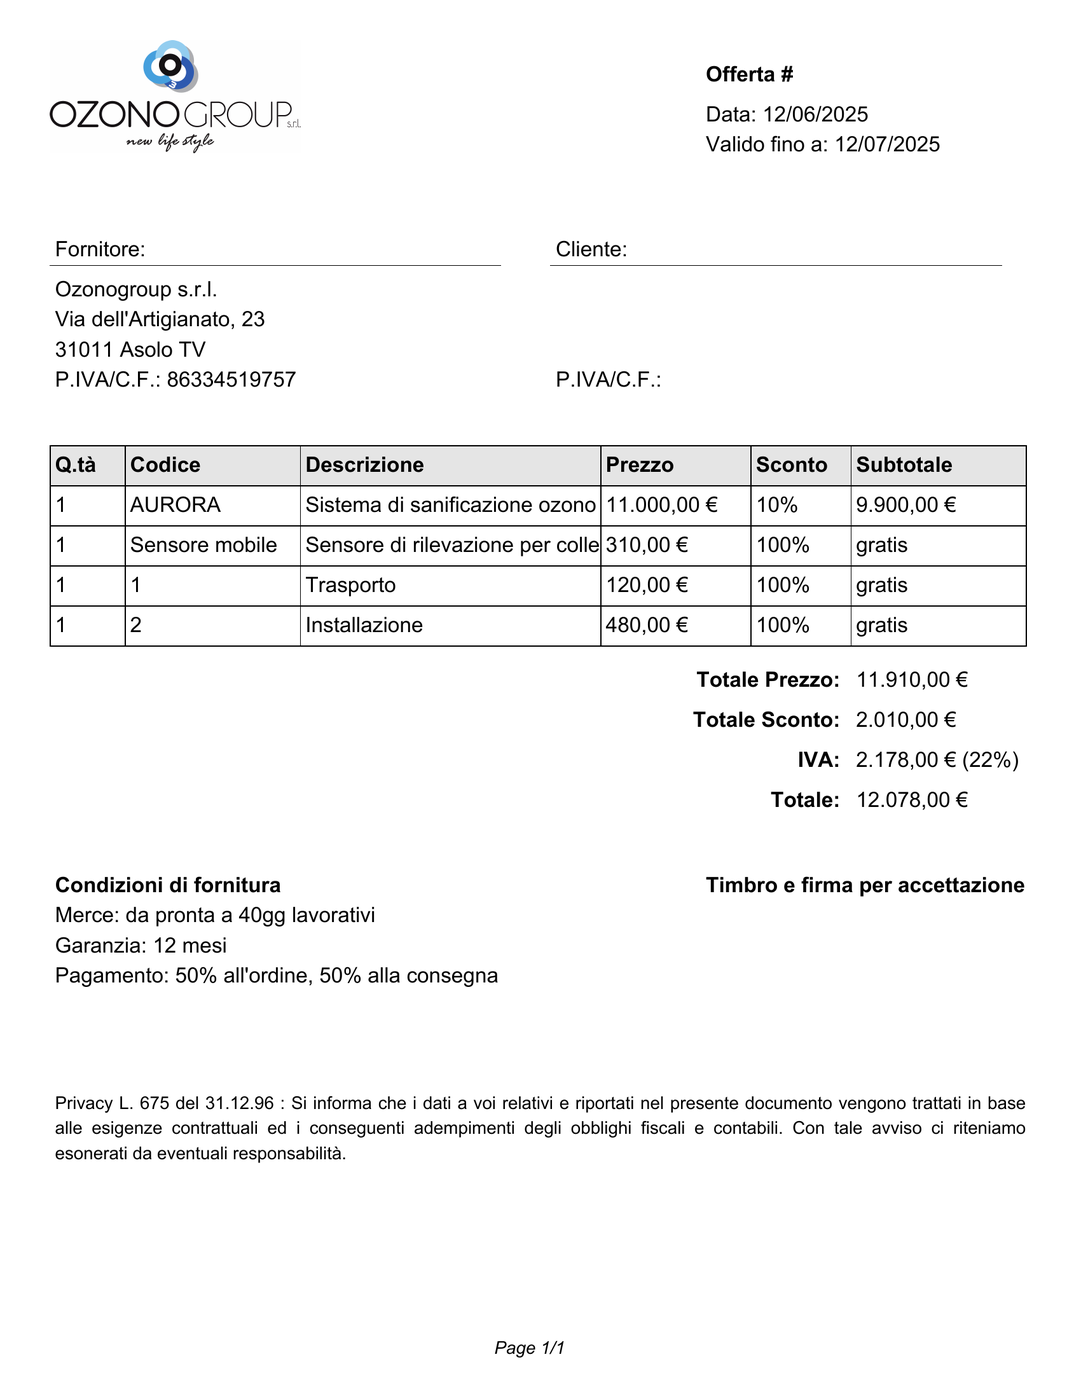
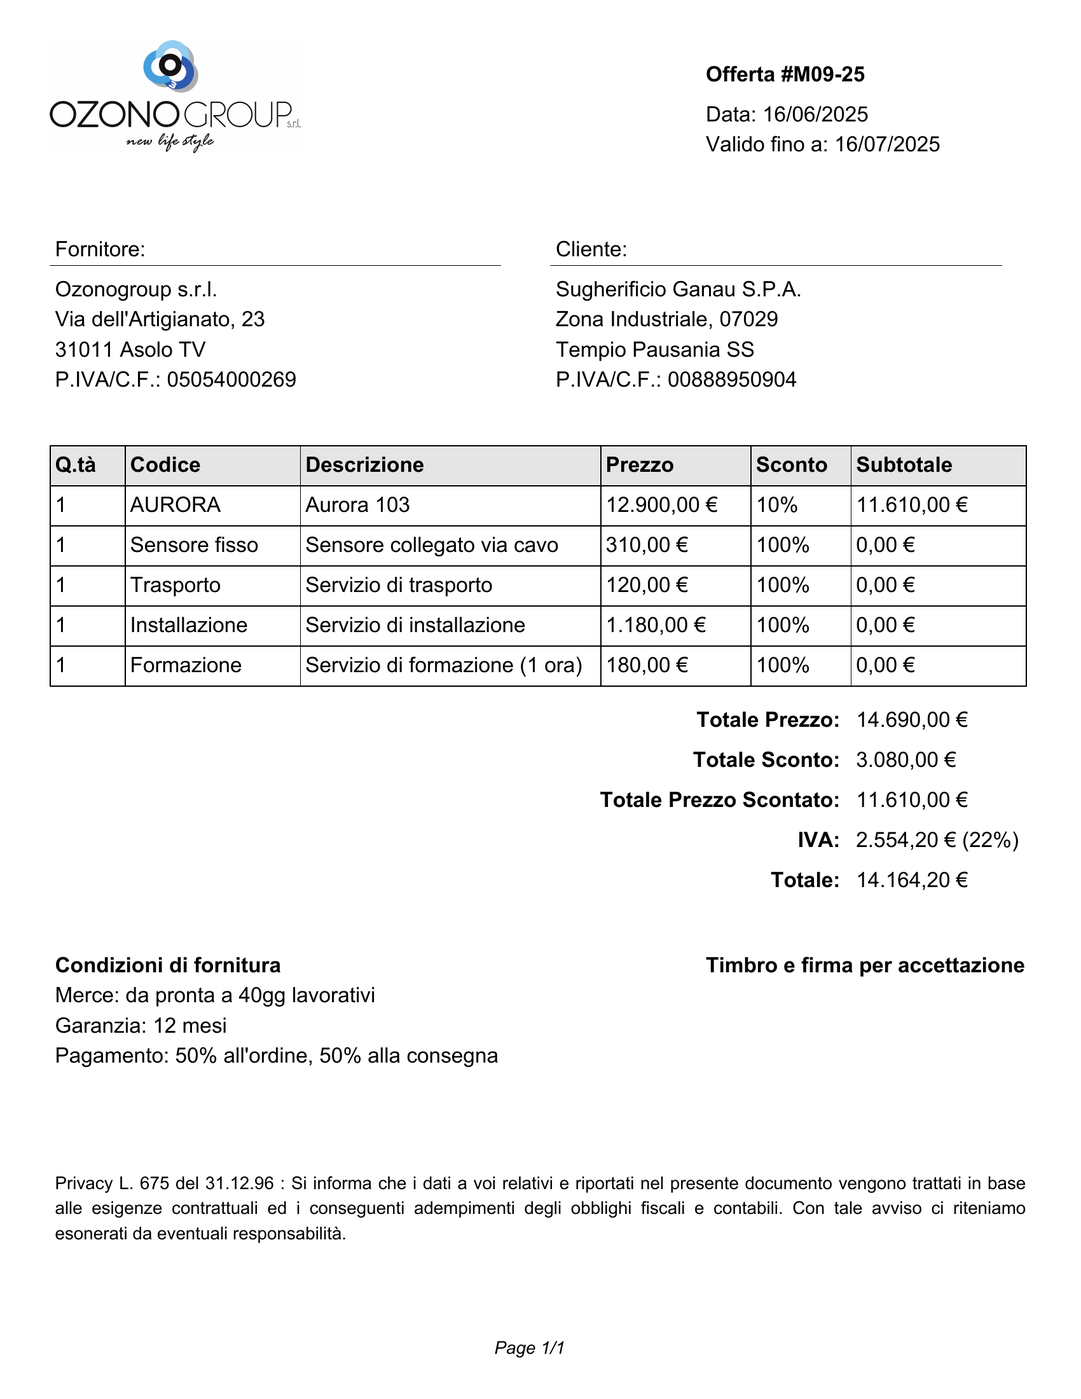
'

diff --git a/website/public/index.html b/website/public/index.html
@@ -43,7 +43,7 @@
                                 sistemi di sanificazione con ozono per ambienti di produzione alimentari più
                                 sicuri e igienici (senza l'uso di sostanze chimiche).</p>
                             <!-- <div style="display: flex; gap: 24px;"> -->
-                            <a class="home-hero-content-button" href="#">Prenota consulenza</a>
+                            <a class="home-hero-content-button" href="/contatti.html">Prenota consulenza</a>
                             <!-- <a class="button-inverted-secondary" href="#">Come funziona</a> -->
                             <!-- </div> -->
                         </div>
@@ -101,14 +101,14 @@
                                 <path
                                     d="M420-340h120v-100h100v-120H540v-100H420v100H320v120h100v100Zm60 260q-139-35-229.5-159.5T160-516v-244l320-120 320 120v244q0 152-90.5 276.5T480-80Zm0-84q104-33 172-132t68-220v-189l-240-90-240 90v189q0 121 68 220t172 132Zm0-316Z" />
                             </svg>
-                            <div style="display: flex; gap: 8px;">
+                            <!-- <div style="display: flex; gap: 8px;">
                                 <a class="home-benefits-card-link" href="#">Learn more</a>
                                 <svg class="home-benefits-card-icon" xmlns="http://www.w3.org/2000/svg" fill="none"
                                     viewBox="0 0 24 24" stroke-width="1.5" stroke="currentColor" class="size-6">
                                     <path stroke-linecap="round" stroke-linejoin="round"
                                         d="M17.25 8.25 21 12m0 0-3.75 3.75M21 12H3" />
                                 </svg>
-                            </div>
+                            </div> -->
                         </div>
                     </div>
                 </div>
@@ -127,14 +127,14 @@
                                 <path
                                     d="M450-80q-12 0-21-9t-9-21q0-12 9-21t21-9v-62q-42-5-79-20t-67-40l-43 44q9 9 9 21t-9 21q-9 9-21 9t-21-9l-43-42q-9-9-9-21.5t9-21.5q9-9 21-8.5t21 8.5l44-44q-25-31-40-67t-20-78h-62q0 12-9 21t-21 9q-12 0-21-9t-9-21v-60q0-12 9-21t21-9q12 0 21 9t9 21h62q5-42 20.5-78t39.5-67l-44-44q-9 8-21 8.5t-21-8.5q-9-9-9-21.5t9-21.5l42-42q9-9 21.5-9t21.5 9q9 9 9 21.5t-9 21.5l43 43q31-25 67-40t78-20v-62q-12 0-20.5-9t-8.5-21q0-12 9-21t21-9h60q12 0 21 9t9 21q0 12-9 21t-21 9v62q42 5 78 20t67 40l44-44q-9-9-9-21t9-21q9-9 21.5-9t21.5 9l42 43q9 9 9 21t-9 21q-9 9-21.5 9t-21.5-9l-43 43q25 31 40 67.5t20 78.5h62q0-12 9-21t21-9q12 0 21 9t9 21v60q0 12-9 21t-21 9q-12 0-21-9t-9-21h-62q-5 42-20 78.5T698-304l43 43q9-9 21.5-9t21.5 9q9 9 9 21.5t-9 21.5l-42 42q-9 9-21.5 9t-21.5-9q-9-9-8.5-21t8.5-21l-44-44q-31 25-67 40.5T510-201v61q12 0 21 9t9 21q0 12-9 21t-21 9h-60Zm30-200q83 0 141.5-58.5T680-480q0-83-58.5-141.5T480-680q-83 0-141.5 58.5T280-480q0 83 58.5 141.5T480-280Zm-70-40q17 0 28.5-11.5T450-360q0-17-11.5-28.5T410-400q-17 0-28.5 11.5T370-360q0 17 11.5 28.5T410-320Zm140 0q17 0 28.5-11.5T590-360q0-17-11.5-28.5T550-400q-17 0-28.5 11.5T510-360q0 17 11.5 28.5T550-320ZM340-440q17 0 28.5-11.5T380-480q0-17-11.5-28.5T340-520q-17 0-28.5 11.5T300-480q0 17 11.5 28.5T340-440Zm140 0q17 0 28.5-11.5T520-480q0-17-11.5-28.5T480-520q-17 0-28.5 11.5T440-480q0 17 11.5 28.5T480-440Zm140 0q17 0 28.5-11.5T660-480q0-17-11.5-28.5T620-520q-17 0-28.5 11.5T580-480q0 17 11.5 28.5T620-440ZM410-560q17 0 28.5-11.5T450-600q0-17-11.5-28.5T410-640q-17 0-28.5 11.5T370-600q0 17 11.5 28.5T410-560Zm140 0q17 0 28.5-11.5T590-600q0-17-11.5-28.5T550-640q-17 0-28.5 11.5T510-600q0 17 11.5 28.5T550-560Zm-70 80Z" />
                             </svg>
-                            <div style="display: flex; gap: 8px;">
+                            <!-- <div style="display: flex; gap: 8px;">
                                 <a class="home-benefits-card-link" href="#">Learn more</a>
                                 <svg class="home-benefits-card-icon" xmlns="http://www.w3.org/2000/svg" fill="none"
                                     viewBox="0 0 24 24" stroke-width="1.5" stroke="currentColor" class="size-6">
                                     <path stroke-linecap="round" stroke-linejoin="round"
                                         d="M17.25 8.25 21 12m0 0-3.75 3.75M21 12H3" />
                                 </svg>
-                            </div>
+                            </div> -->
                         </div>
                     </div>
                 </div>
@@ -154,14 +154,14 @@
                                 <path
                                     d="M216-176q-45-45-70.5-104T120-402q0-63 24-124.5T222-642q35-35 86.5-60t122-39.5Q501-756 591.5-759t202.5 7q8 106 5 195t-16.5 160.5q-13.5 71.5-38 125T684-182q-53 53-112.5 77.5T450-80q-65 0-127-25.5T216-176Zm112-16q29 17 59.5 24.5T450-160q46 0 91-18.5t86-59.5q18-18 36.5-50.5t32-85Q709-426 716-500.5t2-177.5q-49-2-110.5-1.5T485-670q-61 9-116 29t-90 55q-45 45-62 89t-17 85q0 59 22.5 103.5T262-246q42-80 111-153.5T534-520q-72 63-125.5 142.5T328-192Zm0 0Zm0 0Z" />
                             </svg>
-                            <div style="display: flex; gap: 8px;">
+                            <!-- <div style="display: flex; gap: 8px;">
                                 <a class="home-benefits-card-link" href="#">Learn more</a>
                                 <svg class="home-benefits-card-icon" xmlns="http://www.w3.org/2000/svg" fill="none"
                                     viewBox="0 0 24 24" stroke-width="1.5" stroke="currentColor" class="size-6">
                                     <path stroke-linecap="round" stroke-linejoin="round"
                                         d="M17.25 8.25 21 12m0 0-3.75 3.75M21 12H3" />
                                 </svg>
-                            </div>
+                            </div> -->
                         </div>
                     </div>
                 </div>
@@ -336,7 +336,8 @@
                                     d="M250-40v-160h-30q-42 0-71-29t-29-71q0-42 29-71t71-29h30v-40H120v-200h130v-40h-30q-42 0-71-29t-29-71q0-42 29-71t71-29h30v-40h60v40h30q42 0 71 29t29 71q0 42-29 71t-71 29h-30v40h130v200H310v40h30q42 0 71 29t29 71q0 42-29 71t-71 29h-30v160h-60Zm400 0v-160h-30q-42 0-71-29t-29-71q0-42 29-71t71-29h30v-40H520v-200h130v-40h-30q-42 0-71-29t-29-71q0-42 29-71t71-29h30v-40h60v40h30q42 0 71 29t29 71q0 42-29 71t-71 29h-30v40h130v200H710v40h30q42 0 71 29t29 71q0 42-29 71t-71 29h-30v160h-60ZM220-760h120q8 0 14-6t6-14q0-8-6-14t-14-6H220q-8 0-14 6t-6 14q0 8 6 14t14 6Zm400 0h120q8 0 14-6t6-14q0-8-6-14t-14-6H620q-8 0-14 6t-6 14q0 8 6 14t14 6ZM200-520h160v-40H200v40Zm400 0h160v-40H600v40ZM220-280h120q8 0 14-6t6-14q0-8-6-14t-14-6H220q-8 0-14 6t-6 14q0 8 6 14t14 6Zm400 0h120q8 0 14-6t6-14q0-8-6-14t-14-6H620q-8 0-14 6t-6 14q0 8 6 14t14 6ZM200-760v-40 40Zm400 0v-40 40ZM200-520v-40 40Zm400 0v-40 40ZM200-280v-40 40Zm400 0v-40 40Z" />
                             </svg>
                             <div style="display: flex; gap: 8px;">
-                                <a style="color: #3E546A; text-decoration-line: none;" href="#">Learn more</a>
+                                <a style="color: #3E546A; text-decoration-line: none;" href="/settori.html">Scopri
+                                    Settori</a>
                                 <svg style="height: 24px;" xmlns="http://www.w3.org/2000/svg" fill="none"
                                     viewBox="0 0 24 24" stroke-width="1.5" stroke="currentColor" class="size-6">
                                     <path stroke-linecap="round" stroke-linejoin="round"
@@ -365,7 +366,8 @@
                                     d="M440-120q-100 0-170-70t-70-170v-240l200 200-56 57-64-64v47q0 66 47 113t113 47q66 0 113-47t47-113v-127q-36-14-58-44.5T520-600q0-38 22-68.5t58-44.5v-167h80v167q36 14 58 44.5t22 68.5q0 38-22 69t-58 44v127q0 100-70 170t-170 70Zm200-440q17 0 28.5-11.5T680-600q0-17-11.5-28.5T640-640q-17 0-28.5 11.5T600-600q0 17 11.5 28.5T640-560Zm0-40Z" />
                             </svg>
                             <div style="display: flex; gap: 8px;">
-                                <a style="color: #3E546A; text-decoration-line: none;" href="#">Learn more</a>
+                                <a style="color: #3E546A; text-decoration-line: none;" href="/settori.html">Scopri
+                                    Settori</a>
                                 <svg style="height: 24px;" xmlns="http://www.w3.org/2000/svg" fill="none"
                                     viewBox="0 0 24 24" stroke-width="1.5" stroke="currentColor" class="size-6">
                                     <path stroke-linecap="round" stroke-linejoin="round"
@@ -398,7 +400,8 @@
                                     d="M480-120q-117 0-198.5-81.5T200-400q0-94 55.5-168.5T401-669q-20-5-39-14.5T328-708q-33-33-42.5-78.5T281-879q47-5 92.5 4.5T452-832q23 23 33.5 52t13.5 61q13-31 31.5-58.5T572-828q11-11 28-11t28 11q11 11 11 28t-11 28q-22 22-39 48.5T564-667q88 28 142 101.5T760-400q0 117-81.5 198.5T480-120Zm0-80q83 0 141.5-58.5T680-400q0-83-58.5-141.5T480-600q-83 0-141.5 58.5T280-400q0 83 58.5 141.5T480-200Zm0-200Z" />
                             </svg>
                             <div style="display: flex; gap: 8px;">
-                                <a style="color: #3E546A; text-decoration-line: none;" href="#">Learn more</a>
+                                <a style="color: #3E546A; text-decoration-line: none;" href="/settori.html">Scopri
+                                    Settori</a>
                                 <svg style="height: 24px;" xmlns="http://www.w3.org/2000/svg" fill="none"
                                     viewBox="0 0 24 24" stroke-width="1.5" stroke="currentColor" class="size-6">
                                     <path stroke-linecap="round" stroke-linejoin="round"
@@ -431,8 +434,7 @@
                             </svg>
                             <div style="display: flex; gap: 8px;">
                                 <a style="color: #3E546A; text-decoration-line: none;"
-                                    href="/settori/lattiero-caseario.html">Learn
-                                    more</a>
+                                    href="/settori/lattiero-caseario.html">Scopri settore</a>
                                 <svg style="height: 24px;" xmlns="http://www.w3.org/2000/svg" fill="none"
                                     viewBox="0 0 24 24" stroke-width="1.5" stroke="currentColor" class="size-6">
                                     <path stroke-linecap="round" stroke-linejoin="round"
@@ -463,7 +465,8 @@
                                     d="M491-200q12-1 20.5-9.5T520-230q0-14-9-22.5t-23-7.5q-41 3-87-22.5T343-375q-2-11-10.5-18t-19.5-7q-14 0-23 10.5t-6 24.5q17 91 80 130t127 35ZM480-80q-137 0-228.5-94T160-408q0-100 79.5-217.5T480-880q161 137 240.5 254.5T800-408q0 140-91.5 234T480-80Zm0-80q104 0 172-70.5T720-408q0-73-60.5-165T480-774Q361-665 300.5-573T240-408q0 107 68 177.5T480-160Zm0-320Z" />
                             </svg>
                             <div style="display: flex; gap: 8px;">
-                                <a style="color: #3E546A; text-decoration-line: none;" href="#">Learn more</a>
+                                <a style="color: #3E546A; text-decoration-line: none;" href="/settori.html">Scopri
+                                    Settori</a>
                                 <svg style="height: 24px;" xmlns="http://www.w3.org/2000/svg" fill="none"
                                     viewBox="0 0 24 24" stroke-width="1.5" stroke="currentColor" class="size-6">
                                     <path stroke-linecap="round" stroke-linejoin="round"

diff --git a/website/public/settori/lattiero-caseario.html b/website/public/settori/lattiero-caseario.html
@@ -32,7 +32,7 @@
     <div class="spacer-xl"></div>
 
     <section>
-        <div class="container-xl article-container">
+        <div class="container-xl article-layout-container">
             <div style="flex: 2;" class="article">
                 <h1 class="article-title">7 applicazioni della sanificazione ozono nel settore lattiero-caseario</h1>
                 <img class="article-image" src="/immagini/settore-lattiero-caseario.jpg"
@@ -41,7 +41,7 @@
                     microrganismi da ambienti, attrezzature e aria, prolungando la shelf life senza residui
                     chimici.
                 </p>
-                <h2>1. mastite acuta clinica
+                <h2>1. guarisce mastite acuta clinica
                 </h2>
                 <p>
                     La mastite clinica è una malattia comune e costosa nelle mucche da latte, solitamente trattata con
@@ -57,7 +57,7 @@
                     sicuro, economico e senza rischio di residui nel latte, offrendo una valida alternativa ai
                     trattamenti tradizionali.
                 </p>
-                <h2>2. superfici contaminate da letame
+                <h2>2. disinfetta superfici contaminate da letame
                 </h2>
                 <p>
                     Uno studio pubblicato dal "PLOS One Journal" ha valutato l'efficacia dell'ozono come disinfettante
@@ -78,7 +78,7 @@
                     riduzione efficace
                     entro 2 e 8 minuti rispettivamente.
                 </p>
-                <h2>3. flora microbica di prodotti fermentati
+                <h2>3. riduce flora microbica nei prodotti fermentati
                 </h2>
                 <p>
                     Uno studio pubblicato dal "International Journal of Food Microbiology" ha valutato l'efficacia
@@ -99,7 +99,7 @@
                     corretta configurazione di tempo e concentrazione, l'ozonizzazione potrebbe rappresentare un
                     approccio promettente per migliorare la sicurezza microbiologica di alcuni prodotti caseari.
                 </p>
-                <h2>4. Endometrite postpartum delle vacche da latte
+                <h2>4. Guarisce Endometrite postpartum delle vacche da latte
                 </h2>
                 <p>
                     Uno studio pubblicato dal "Agriculture and Agricultural Science Procedia" ha valutato l'efficacia
@@ -119,7 +119,7 @@
                     al primo servizio. Inoltre, il numero medio di dosi di seme necessarie fino alla gravidanza è stato
                     inferiore nel gruppo Ozono rispetto al gruppo Controllo.
                 </p>
-                <h2>5. Trattamento delle acque reflue
+                <h2>5. Tratta le acque reflue
                 </h2>
                 <p>
                     Uno studio pubblicato dal "Environmental Engineering Research" ha valutato l'efficacia di diversi
@@ -140,7 +140,7 @@
                     l'ozono, soprattutto se utilizzato in combinazione con UV e H₂O₂, è particolarmente efficace nel
                     trattamento di queste acque reflue.
                 </p>
-                <h2>6. Biofilm di Bacillus spp.
+                <h2>6. Elimina Biofilm di Bacillus spp.
                 </h2>
                 <p>
                     Uno studio pubblicato dal "Frontiers in Microbiology" ha valutato il problema della contaminazione
@@ -161,10 +161,11 @@
                     polistirene. Questi risultati confermano il potenziale dell'ozono come alternativa “green” per
                     migliorare i protocolli di sanificazione nel settore alimentare.
                 </p>
-                <h2>7.
+                <h2>7. Elimina Salmonella ed E. coli nei rifiuti liquidi
                 </h2>
                 <p>
-                    Uno studio ha valutato il problema della contaminazione da patogeni umani nel letame liquido bovino,
+                    Uno studio pubblicato dal " Applied Sciences Journal" ha valutato il problema della contaminazione
+                    da patogeni umani nel letame liquido bovino,
                     comunemente utilizzato come fertilizzante agricolo alternativo.
                 </p>
                 <p>
@@ -182,7 +183,51 @@
                     entrambi i patogeni.
                 </p>
             </div>
-            <div style="flex: 1;"></div>
+            <div style="flex: 1;" class="article-sidebar">
+                <div class="contact-card">
+                    <div>
+                        <p class="article-contact-card-title">Contattaci</p>
+                        <p class="article-contact-card-desc">Se vuoi richiedere informazioni sull'utilizzo dell'ozono in
+                            questo settore, usa uno dei contatti elencati qui sotto.</p>
+                    </div>
+                    <div style="display: flex; flex-direction: column; gap: 16px;">
+                        <div style="display: flex; justify-content: space-between; align-items: center;">
+                            <div style="display: flex; gap: 8px;">
+                                <svg style="color: #0f1f2e;" xmlns="http://www.w3.org/2000/svg" height="32px"
+                                    viewBox="0 -960 960 960">
+                                    <path
+                                        d="M160-160q-33 0-56.5-23.5T80-240v-480q0-33 23.5-56.5T160-800h640q33 0 56.5 23.5T880-720v480q0 33-23.5 56.5T800-160H160Zm320-280L160-640v400h640v-400L480-440Zm0-80 320-200H160l320 200ZM160-640v-80 480-400Z" />
+                                </svg>
+                                <p class="contact-text">
+                                    Mandaci una email<br>elena@ozonogroup.it
+                                </p>
+                            </div>
+                            <svg style="height: 32px; color: #0f1f2e;" xmlns="http://www.w3.org/2000/svg" fill="none"
+                                viewBox="0 0 24 24" stroke-width="1.5" stroke="currentColor" class="size-6">
+                                <path stroke-linecap="round" stroke-linejoin="round"
+                                    d="M17.25 8.25 21 12m0 0-3.75 3.75M21 12H3" />
+                            </svg>
+                        </div>
+                        <div style="display: flex; justify-content: space-between; align-items: center;">
+                            <div style="display: flex; gap: 8px;">
+                                <svg style="color: #0f1f2e;" xmlns="http://www.w3.org/2000/svg" height="32px"
+                                    viewBox="0 -960 960 960">
+                                    <path
+                                        d="M798-120q-125 0-247-54.5T329-329Q229-429 174.5-551T120-798q0-18 12-30t30-12h162q14 0 25 9.5t13 22.5l26 140q2 16-1 27t-11 19l-97 98q20 37 47.5 71.5T387-386q31 31 65 57.5t72 48.5l94-94q9-9 23.5-13.5T670-390l138 28q14 4 23 14.5t9 23.5v162q0 18-12 30t-30 12ZM241-600l66-66-17-94h-89q5 41 14 81t26 79Zm358 358q39 17 79.5 27t81.5 13v-88l-94-19-67 67ZM241-600Zm358 358Z" />
+                                </svg>
+                                <p class="contact-text">
+                                    Chiamaci<br>+39 0423 952833
+                                </p>
+                            </div>
+                            <svg style="height: 32px; color: #0f1f2e;" xmlns="http://www.w3.org/2000/svg" fill="none"
+                                viewBox="0 0 24 24" stroke-width="1.5" stroke="currentColor" class="size-6">
+                                <path stroke-linecap="round" stroke-linejoin="round"
+                                    d="M17.25 8.25 21 12m0 0-3.75 3.75M21 12H3" />
+                            </svg>
+                        </div>
+                    </div>
+                </div>
+            </div>
         </div>
     </section>
 

diff --git a/website/public/style.css b/website/public/style.css
@@ -836,26 +836,24 @@ p {}
 /* ******************************* */
 /* article */
 /* ******************************* */
-.article h2 {
-    margin-top: 6.4rem;
-}
 
-.article-container {
+.article-layout-container {
     display: flex;
     gap: 96px;
     margin-bottom: 16px;
 }
 
-.article-container p {
+.article p {
     margin-bottom: 16px;
     line-height: 1.5;
 }
 
-.article-container h2 {
+.article h2 {
     color: var(--ds-theme-color-content-display);
     font-size: var(--ds-theme-typography-size-xl);
     line-height: 40px;
     font-weight: normal;
+    margin-top: 6.4rem;
     margin-bottom: 16px;
     text-transform: capitalize;
 }
@@ -874,4 +872,20 @@ p {}
     object-fit: cover;
     margin-bottom: 16px;
     border-radius: var(--ds-theme-border-radius-xl);
+}
+
+.article-sidebar {}
+
+.article-contact-card-title {
+    color: var(--ds-theme-color-content-display);
+    font-size: var(--ds-theme-typography-size-xl);
+    /* line-height: 40px; */
+    font-weight: normal;
+    margin-bottom: 16px;
+    text-transform: capitalize;
+
+}
+
+.article-contact-card-desc {
+    margin-bottom: 32px;
 }

diff --git a/website/public/settori.html b/website/public/settori.html
@@ -60,7 +60,7 @@
                             </svg>
                             <div style="display: flex; gap: 8px;">
                                 <a style="color: #3E546A; text-decoration-line: none;"
-                                    href="/settori/lattiero-caseario.html">Learn more</a>
+                                    href="/settori/lattiero-caseario.html">Scopri settore</a>
                                 <svg style="height: 24px;" xmlns="http://www.w3.org/2000/svg" fill="none"
                                     viewBox="0 0 24 24" stroke-width="1.5" stroke="currentColor" class="size-6">
                                     <path stroke-linecap="round" stroke-linejoin="round"

diff --git a/website/components/button-default.css b/website/components/button-default.css
@@ -1,0 +1,7 @@
+.button-default {
+    color: #212121;
+    
+    border-radius: 9999px;
+    padding: 8px 16px;
+    text-decoration-line: none;
+}

diff --git a/website/components/button-default.html b/website/components/button-default.html
@@ -1,0 +1,5 @@
+<div>
+    <a class="button-default" href="/contatti.html">
+        Prenota consulenza
+    </a>
+</div>

diff --git a/administration/invoice/main.py b/administration/invoice/main.py
@@ -116,7 +116,7 @@ def generate_pdf():
     pdf.cell(cell_width_divider, cell_height, '', fill=True)
     pdf.cell(cell_width, cell_height, business_address_2, fill=True, ln=1)
     
-    pdf.cell(cell_width, cell_height, 'P.IVA/C.F.: 86334519757', fill=True)
+    pdf.cell(cell_width, cell_height, 'P.IVA/C.F.: 05054000269', fill=True)
     pdf.cell(cell_width_divider, cell_height, '', fill=True)
     pdf.cell(cell_width, cell_height, f'P.IVA/C.F.: {business_iva}', fill=True, ln=1)
     pdf.ln(10)
@@ -169,7 +169,8 @@ def generate_pdf():
         # price_str = '€ ' + str(price_num)
         discount_str = str(discount_num) + "%"
         if discount_num == 100:
-            subtotal_str = 'gratis'
+            subtotal_str = 'incluso'
+            subtotal_str = locale.currency(subtotal_num, grouping=True)
         else:
             subtotal_str = locale.currency(subtotal_num, grouping=True)
 
@@ -203,6 +204,16 @@ def generate_pdf():
     pdf.cell(25, cell_height, 'Totale Sconto: ', align='R')
     pdf.set_font(font, '', text_size)
     pdf.cell(25, cell_height, discount_total_str)
+    pdf.ln(cell_height)
+
+    total_price_discounted_num = price_total_num - discount_total_num
+    total_price_discounted_str = locale.currency(total_price_discounted_num, grouping=True)
+
+    pdf.cell(margin_left, cell_height, '')
+    pdf.set_font(font, 'B', text_size)
+    pdf.cell(25, cell_height, 'Totale Prezzo Scontato: ', align='R')
+    pdf.set_font(font, '', text_size)
+    pdf.cell(25, cell_height, total_price_discounted_str)
     pdf.ln(cell_height)
 
     iva_perc = 22

diff --git a/website/lib/comp_button_default.py b/website/lib/comp_button_default.py
@@ -1,0 +1,26 @@
+from lib import ds
+
+def gen(text, href):
+    html = f'''
+<div>
+    <a class="button-default" href="/contatti.html">
+        Prenota consulenza
+    </a>
+</div>
+    '''.strip()
+
+    css = f'''
+.button-default {{
+    color: {ds.ds_theme_button_color_content_inverted_primary};
+    background-color: {ds.ds_theme_button_color_background_inverted_primary};
+    
+    border-radius: 9999px;
+    padding: 8px 16px;
+    text-decoration-line: none;
+}}
+    '''.strip()
+    with open(f'components/button-default.html', 'w') as f:
+        f.write(html)
+    with open(f'components/button-default.css', 'w') as f:
+        f.write(css)
+    # border: 1px solid var(--ds-theme-button-color-border-inverted-primary);

diff --git a/website/lib/ds.py b/website/lib/ds.py
@@ -1,0 +1,5 @@
+color_brand_grey_900 = '#212121'
+color_brand_white = '#ffffff'
+
+ds_theme_button_color_content_inverted_primary = color_brand_grey_900
+ds_theme_button_color_background_inverted_primary = color_brand_white

diff --git a/website/components_gen.py b/website/components_gen.py
@@ -1,0 +1,3 @@
+from lib import comp_button_default
+
+comp_button_default.gen('Prenota consulenza', '/contatti.html')
